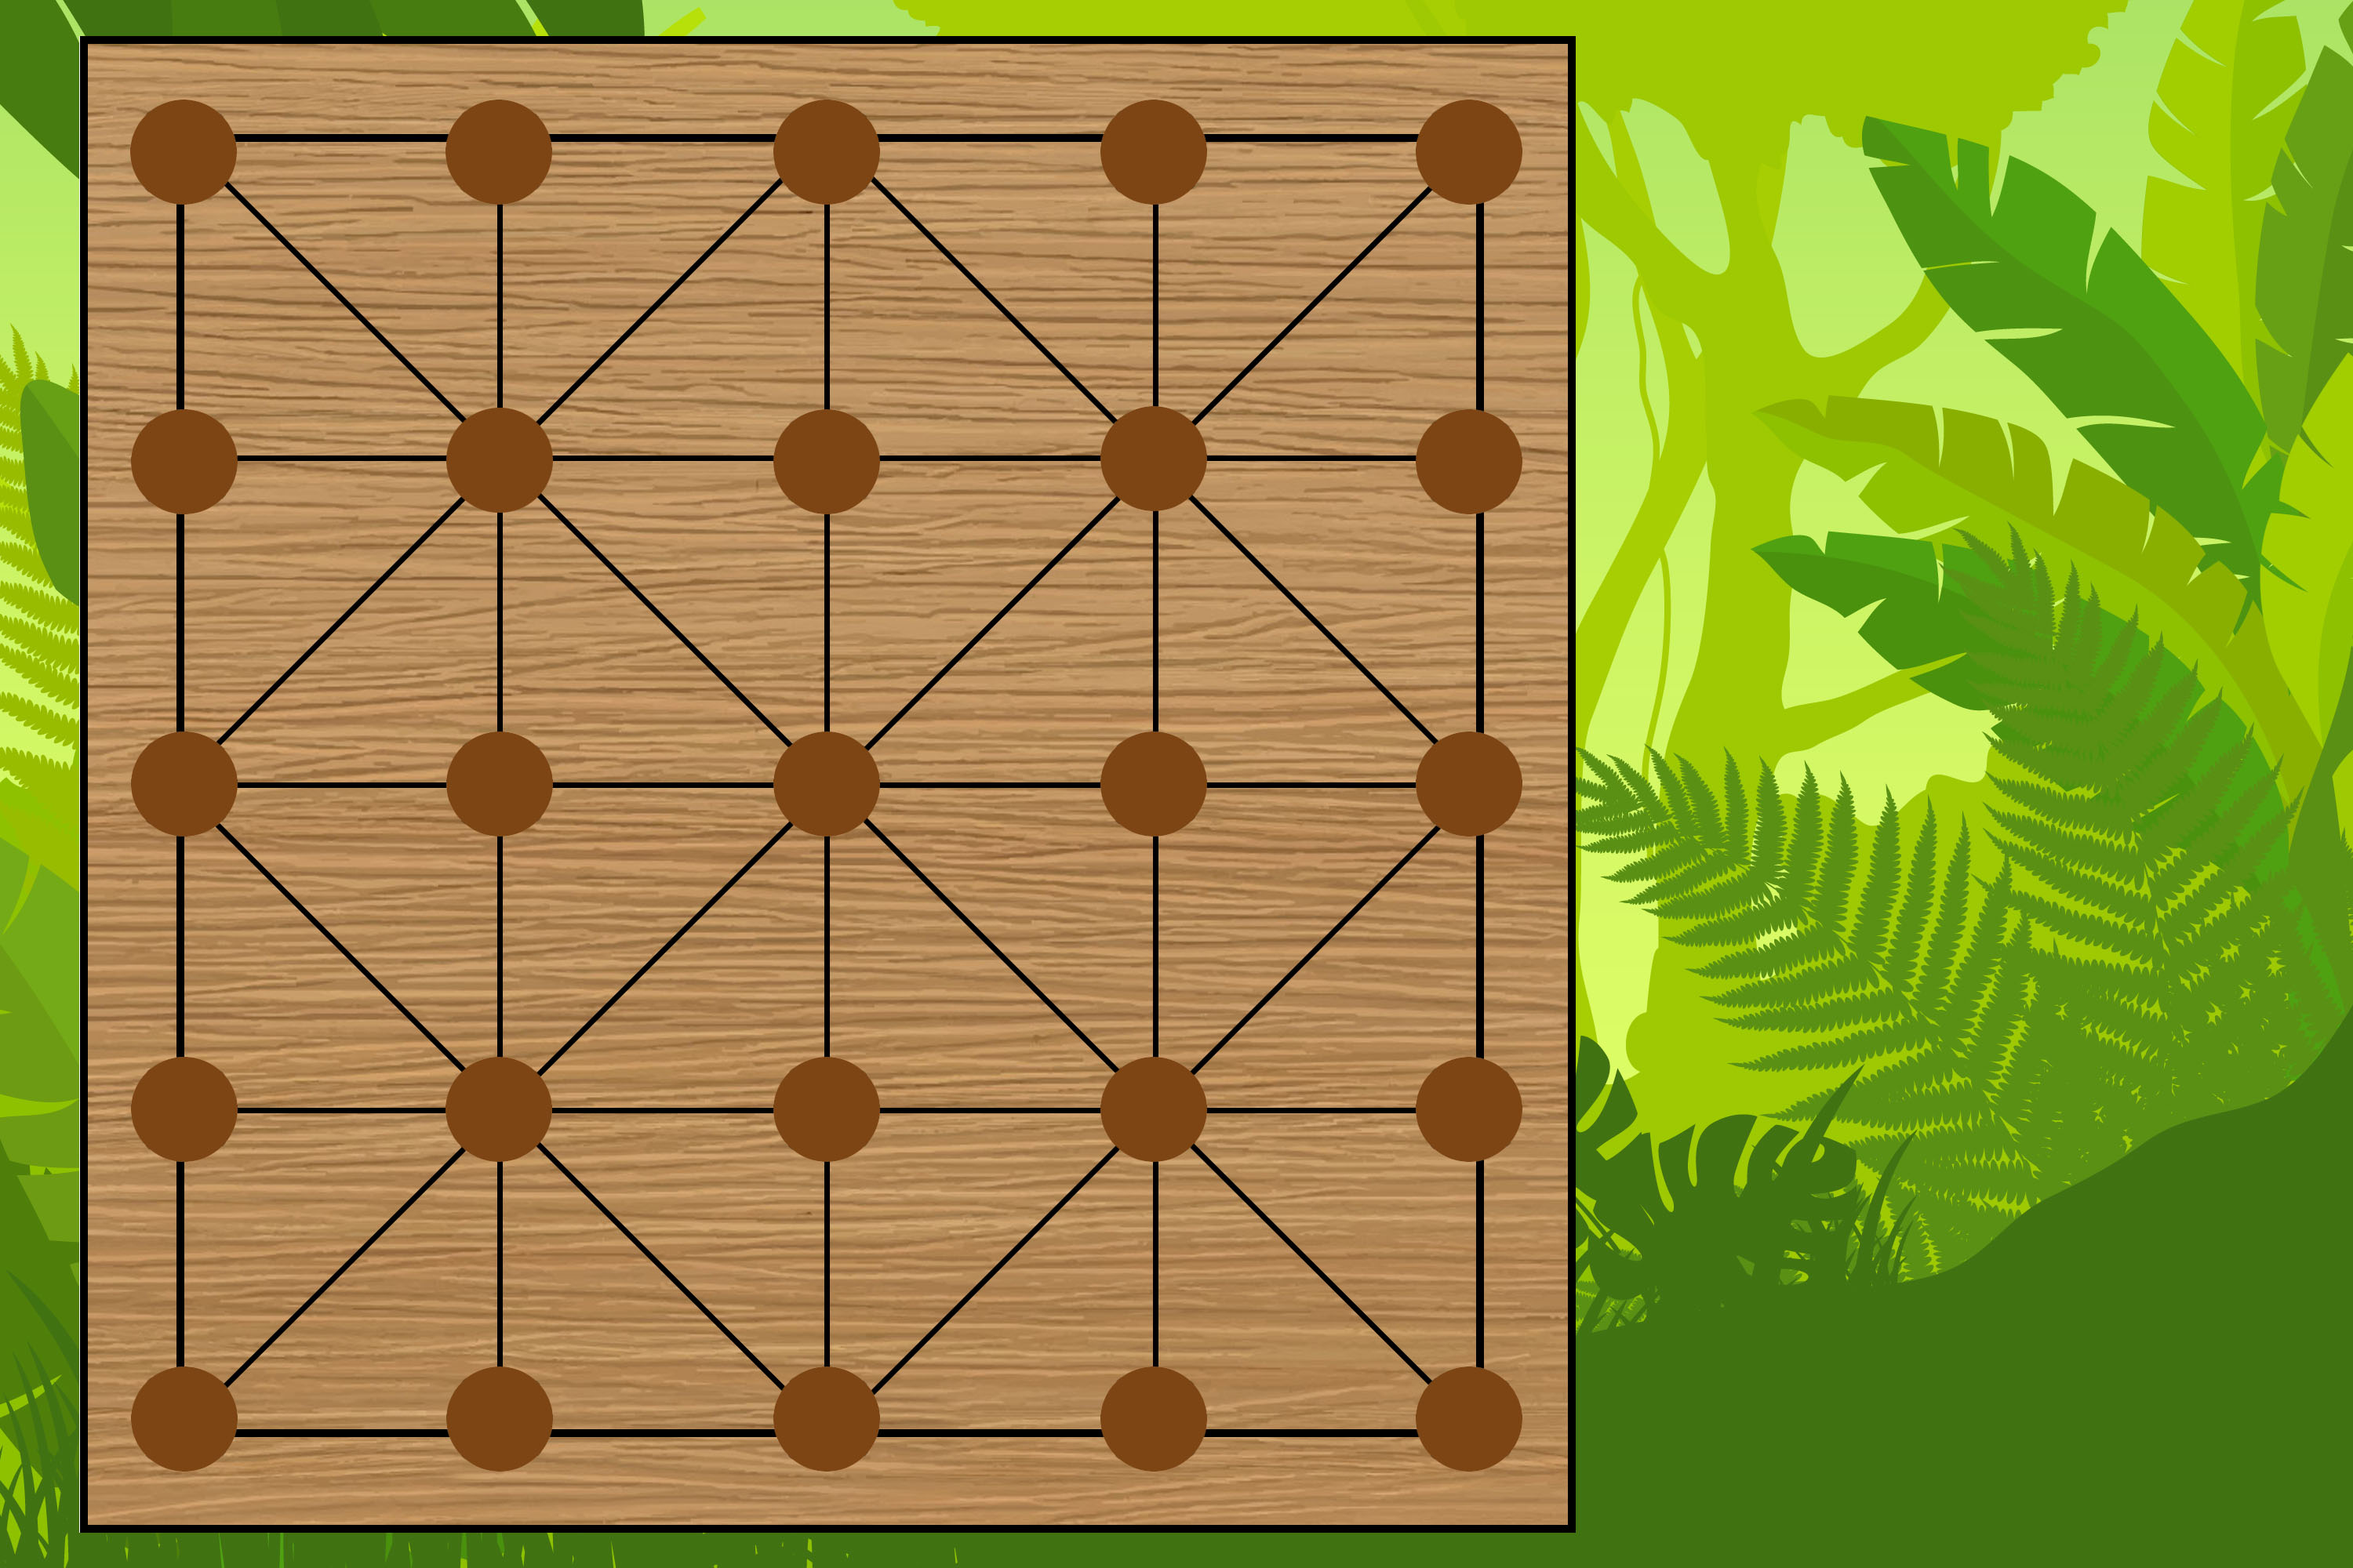
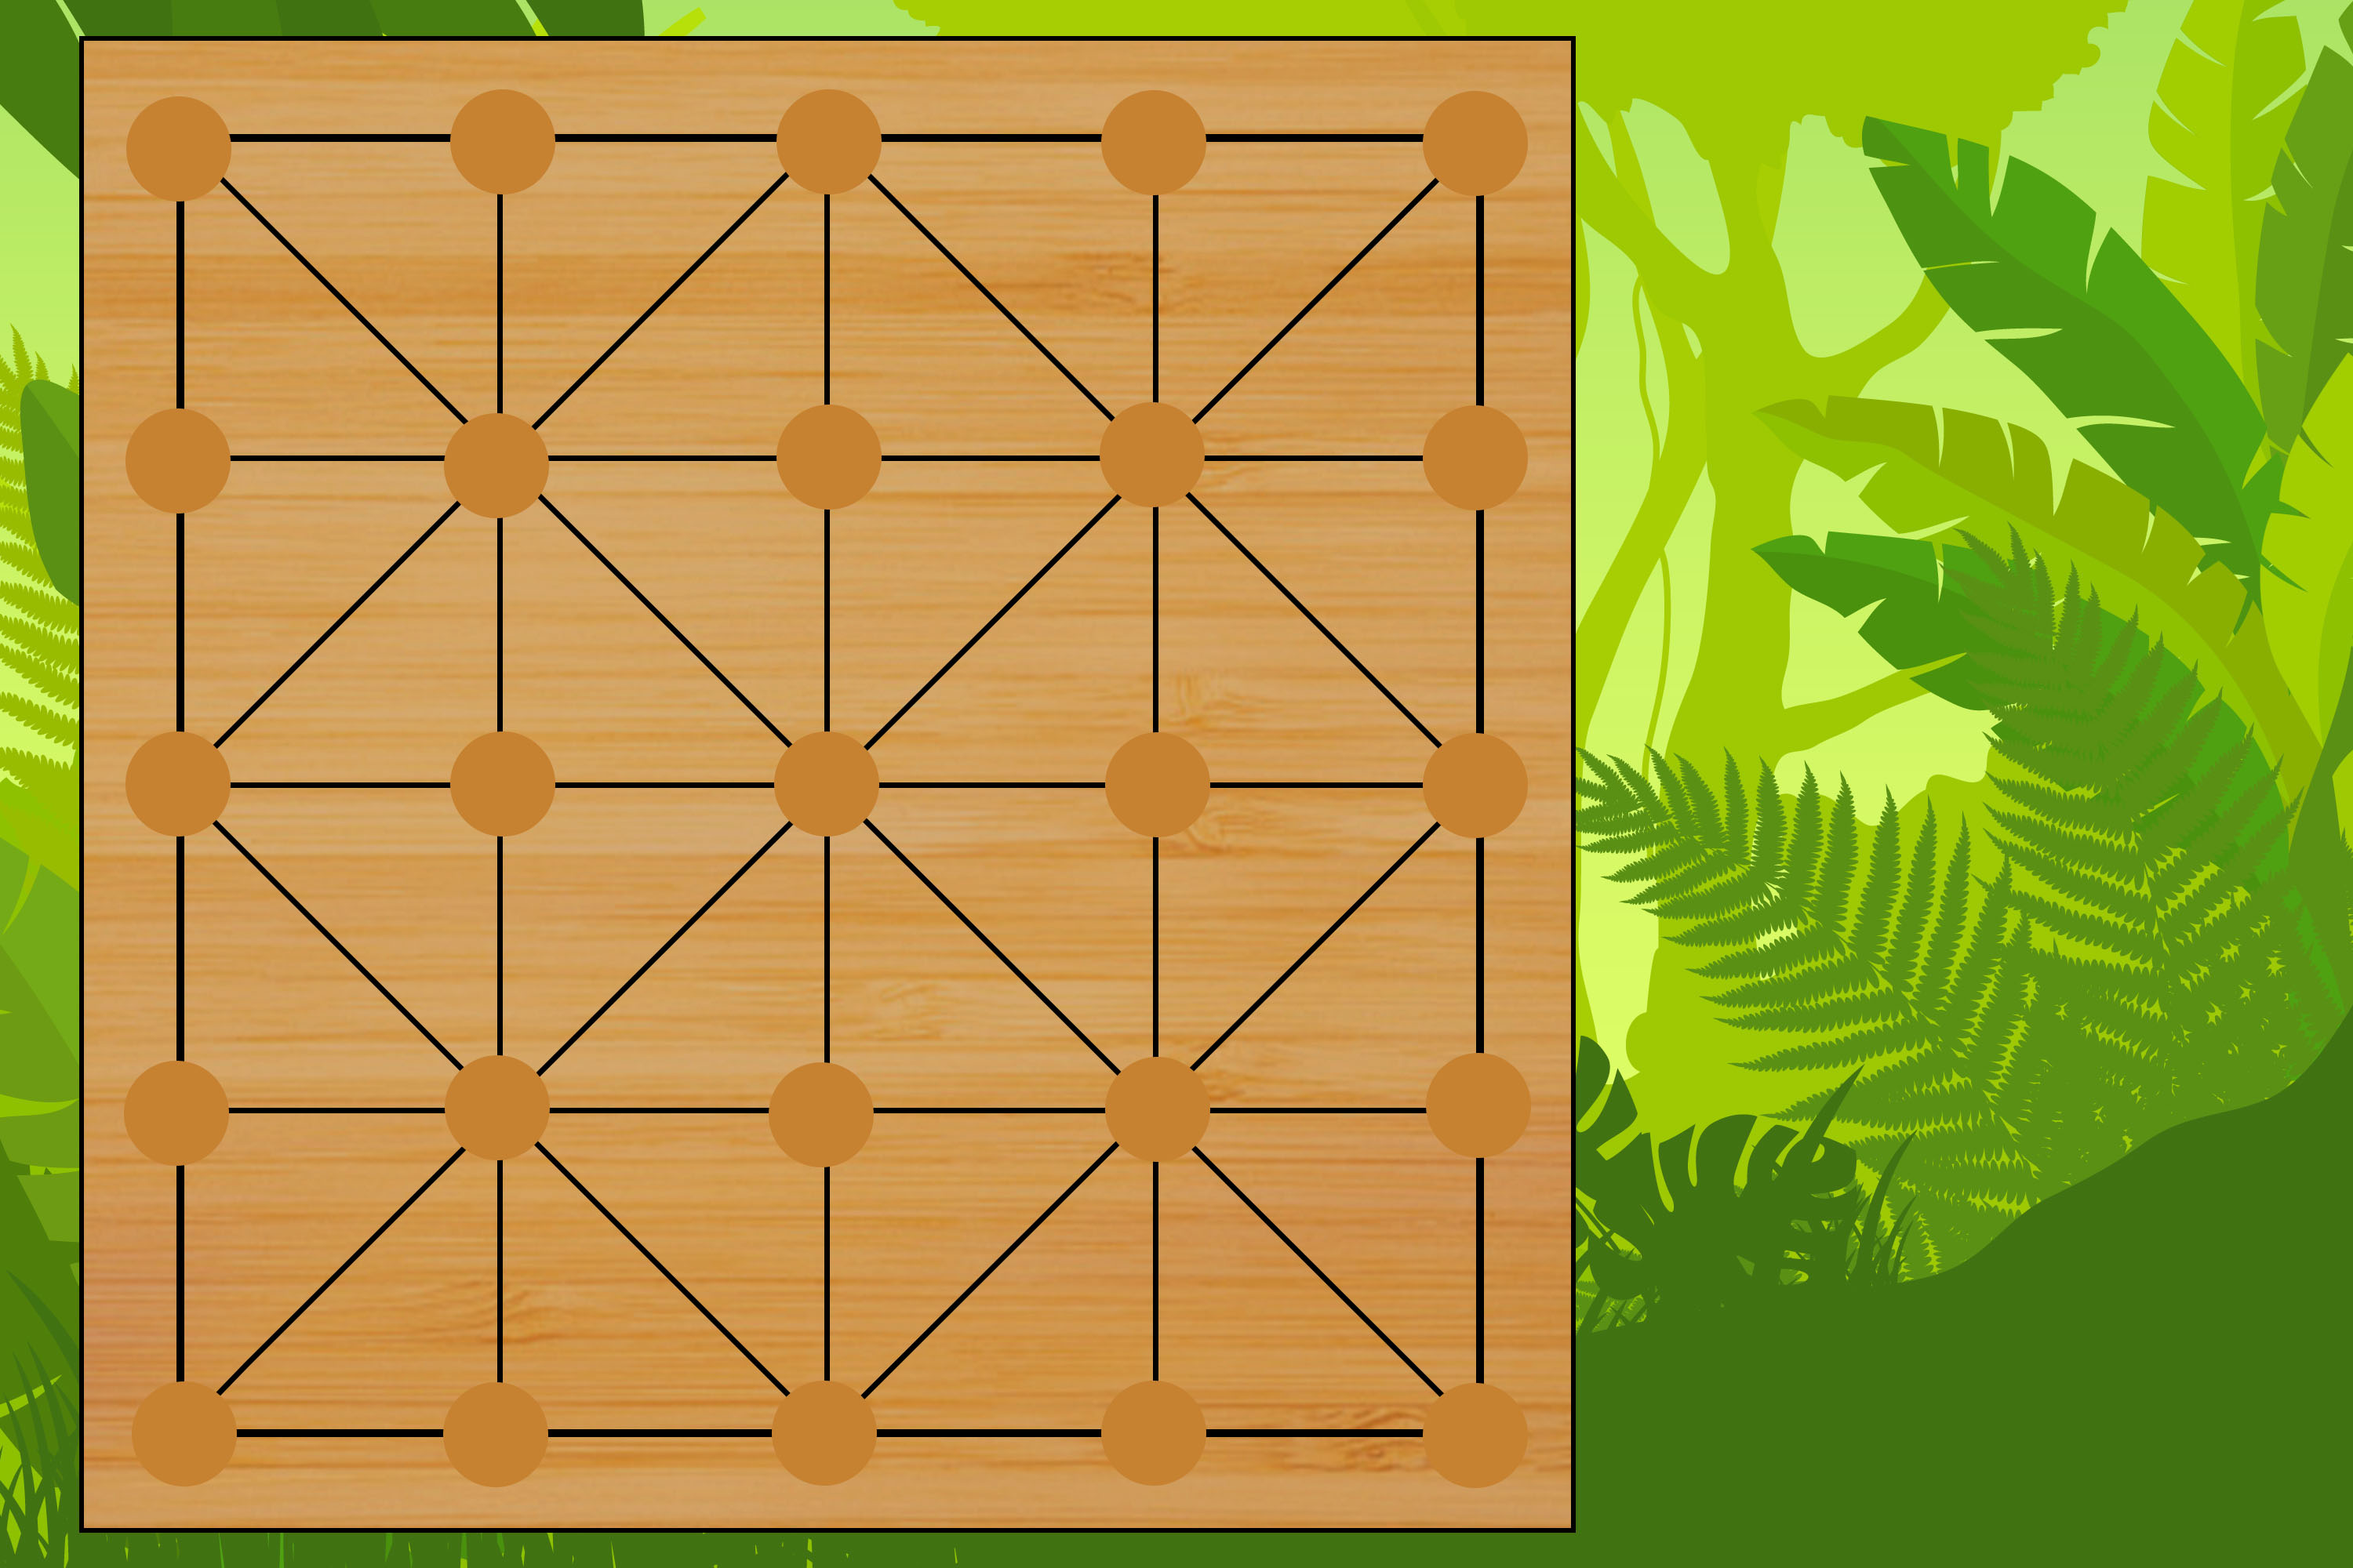
Sanskar Branch created

diff --git a/src/LoadBoard.cpp b/src/LoadBoard.cpp
@@ -46,7 +46,7 @@ Board::Board() //Constructor
         (cell+i)->setCoord(i);//sets the co ordinates
         goatEatenMoves.push_back(cell[i]);//just because the vector wont be empty  at the beginning
     }
-    boardTexture.loadFromFile("../Media/Images/board.jpg");
+    boardTexture.loadFromFile("../Media/Images/board1.jpg");
     boardImage.setTexture(&boardTexture);
     boardImage.setPosition(0, 0);
     boardImage.setSize(sf::Vector2f(1377, 720));
